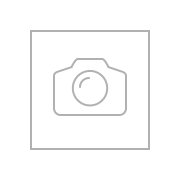
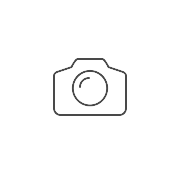
New camera button and some view layout adjustments

Changed region(s): [[0.2778, 0.3056, 0.7222, 0.6667], [0.1667, 0.1667, 0.8333, 0.8333]]

diff --git a/DemoApp/DrawViewController.m b/DemoApp/DrawViewController.m
@@ -36,7 +36,7 @@ BOOL isShowingResultView = NO;
     
     NSLog(@"w: %f h: %f", screenWidth, screenHeight);
 
-    drawScreen = [[LineDrawingView alloc] initWithFrame:CGRectMake(0, 128, 320, 299)];
+    drawScreen = [[LineDrawingView alloc] initWithFrame:CGRectMake(0, 119, 320, 299)];
 
     self.borderLabel.layer.borderColor = [[UIColor alloc] initWithRed:0.2824 green:0.2824 blue:0.2824 alpha:1].CGColor;
     self.borderLabel.layer.borderWidth = 2.0f;
